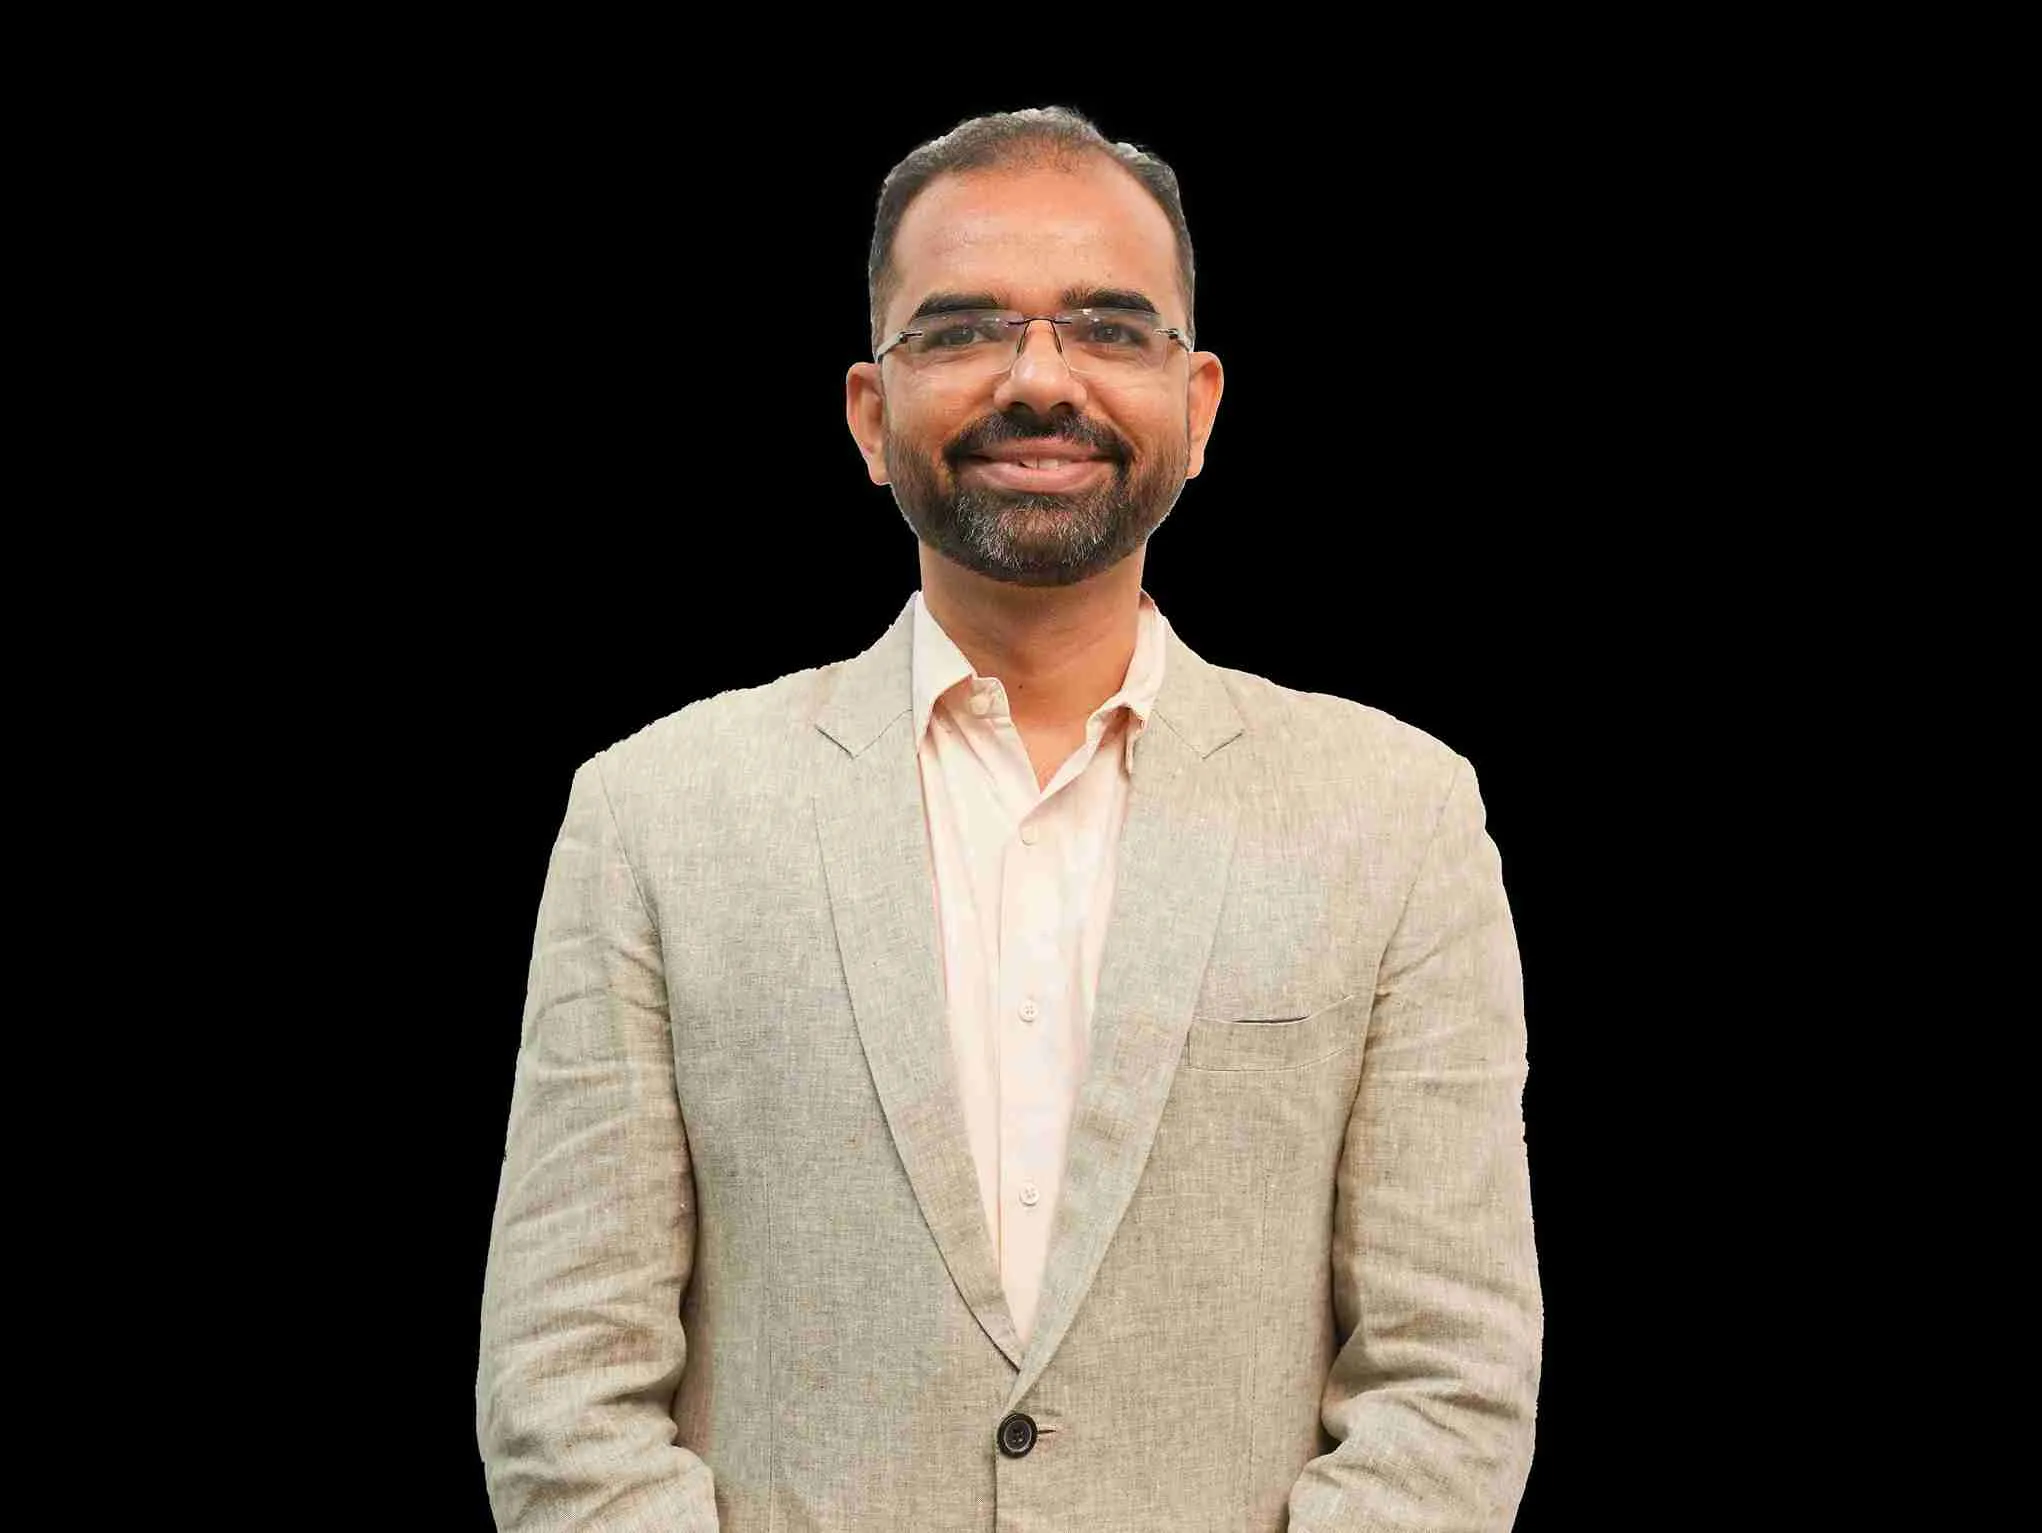
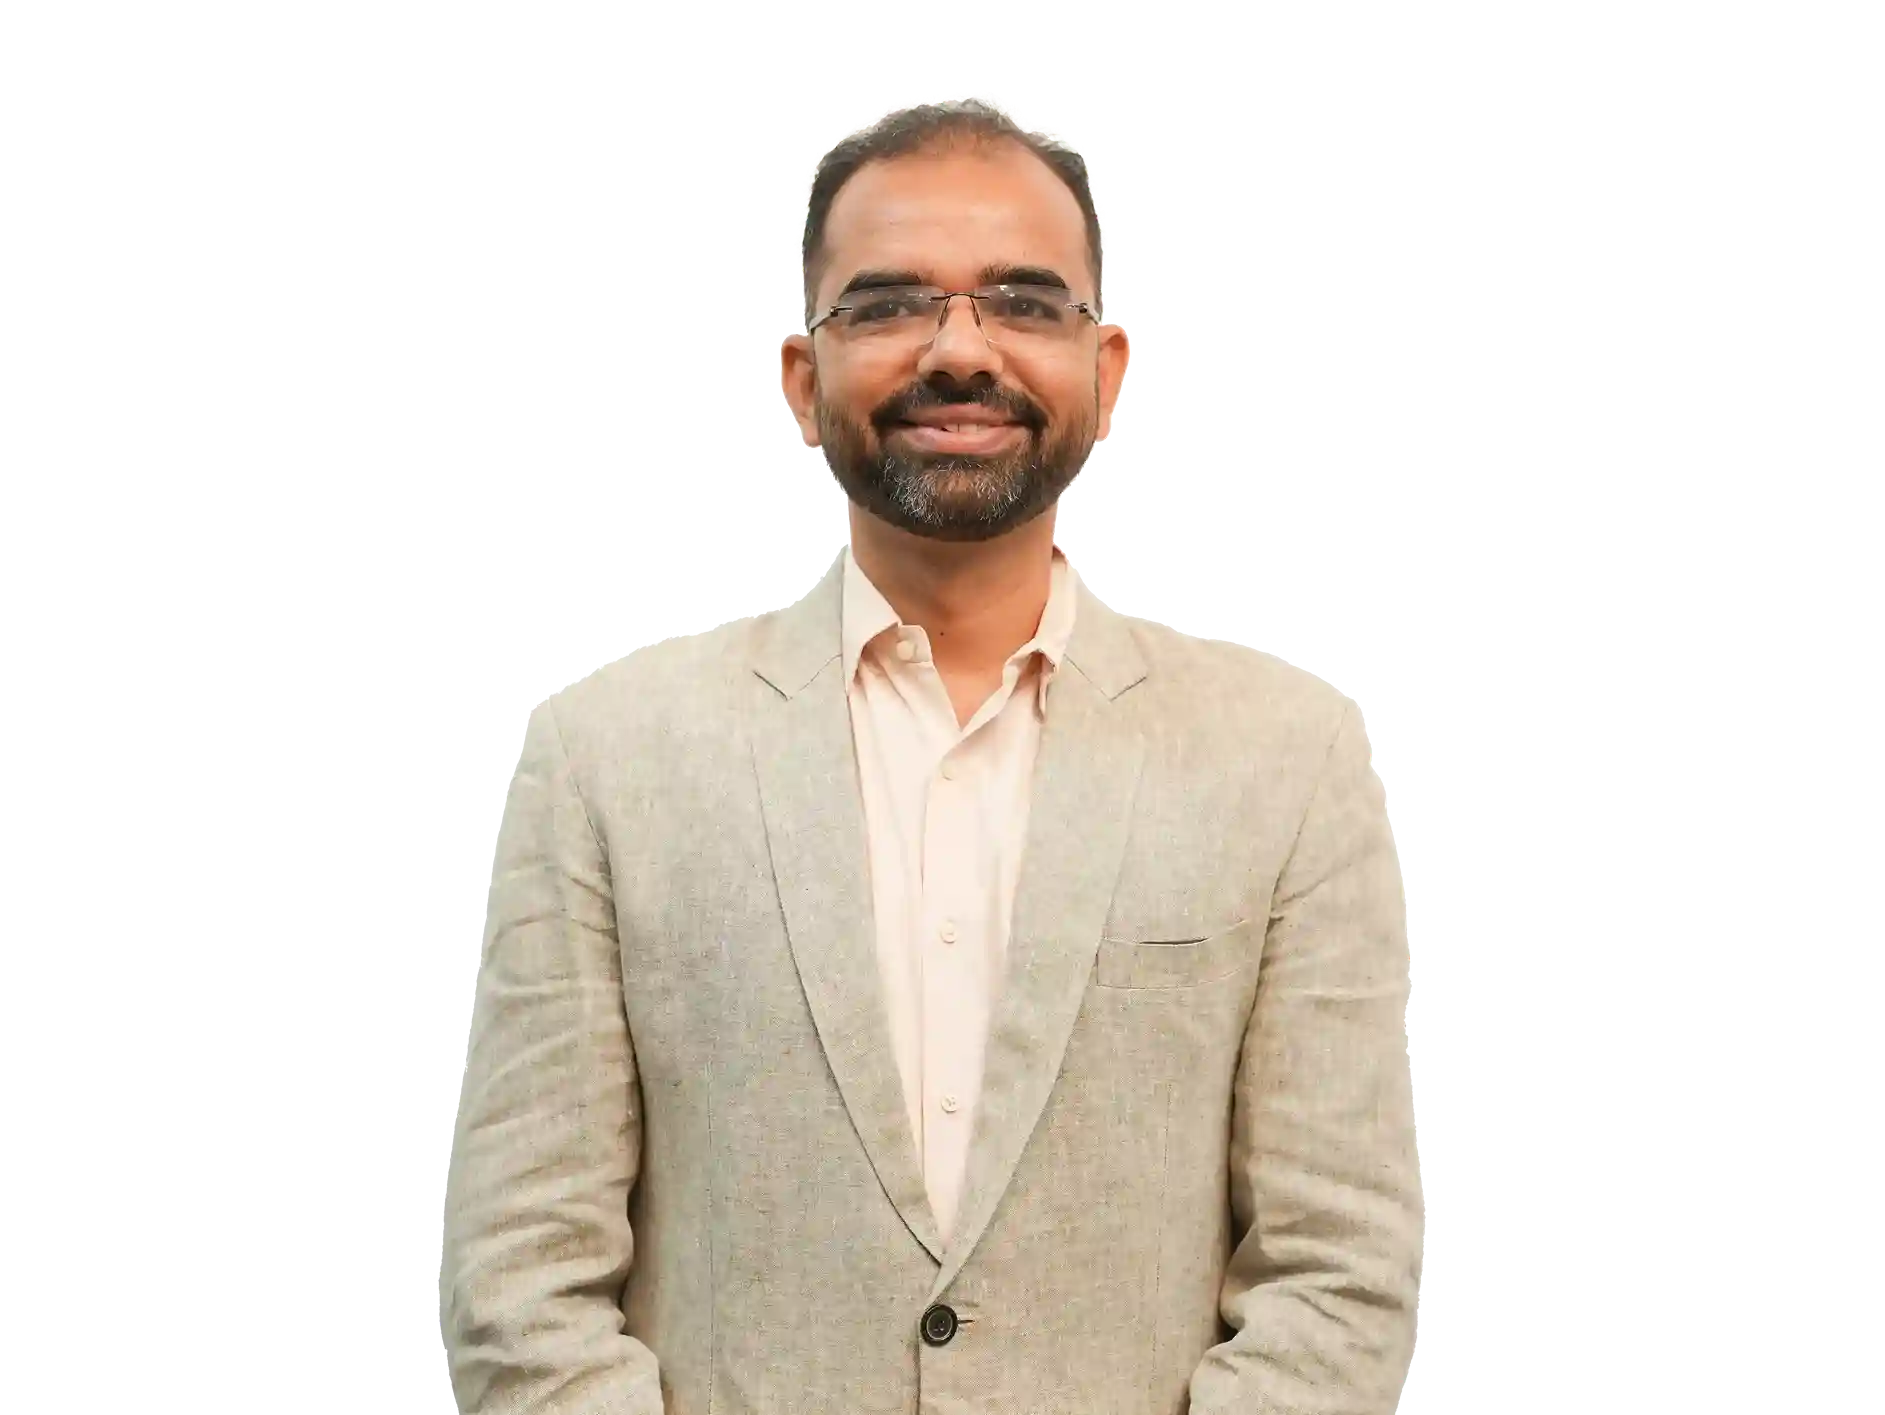
background removed from faculty image

diff --git a/faculty.html b/faculty.html
@@ -104,7 +104,7 @@
 
       .card img {
         object-fit: cover;
-        background: linear-gradient(to bottom, #2b5876, #4e4376);
+        background: #a9a9a9;
         width: 100%;
         height: 300px;
         border-top-left-radius: 10px;
